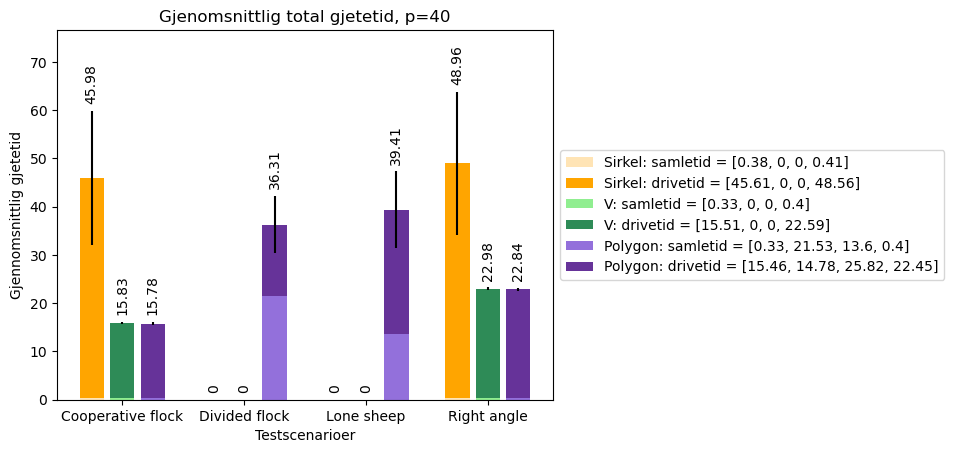
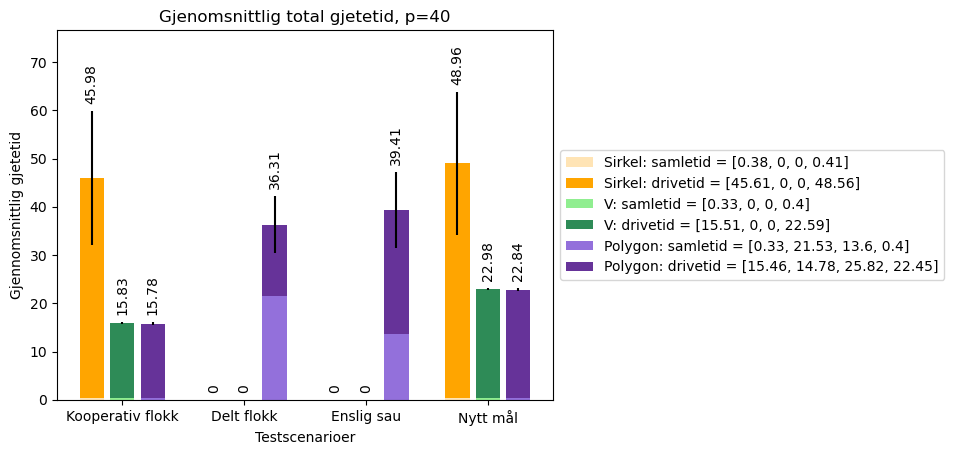
norske navn på testscenarioene i diagrammene

diff --git a/diagrams.py b/diagrams.py
@@ -114,7 +114,7 @@ def average_time_existing(dir_path, df_circle, df_v, df_polygon, perception):
     ax_time.set_xlabel('Testscenarioer')
     ax_time.set_ylabel('Gjennomsnittlig gjetetid')
     ax_time.set_xticks(ind)
-    ax_time.set_xticklabels(["Cooperative flock", "Divided flock", "Lone sheep", "Right angle"])
+    ax_time.set_xticklabels(TESTTYPES_NAME)
 
     ax_time.set_title('Gjenomsnittlig total gjetetid, p={}'.format(perception))
     ax_time.legend(loc='center left', bbox_to_anchor=(1, 0.5))
@@ -179,7 +179,7 @@ def succsessrate_existing(dir_path, df_circle, df_v, df_polygon, perception):
     ax.set_xlabel('Testscenarioer')
     ax.set_ylabel('Antall simuleringer')
     ax.set_xticks(ind)
-    ax.set_xticklabels(["Cooperative flock", "Divided flock", "Lone sheep", "Right angle"])
+    ax.set_xticklabels(TESTTYPES_NAME)
 
     ax.set_title('Antall simuleringer som er suksess og mislykket, p={}'.format(perception))
     ax.legend(loc='center left', bbox_to_anchor=(1, 0.5))
@@ -329,7 +329,7 @@ def average_time_all(dir_path, df_circle, df_v, df_polygon, df_our, perception):
     ax_time.set_xlabel('Testscenarioer')
     ax_time.set_ylabel('Gjennomsnittlig gjetetid')
     ax_time.set_xticks(ind)
-    ax_time.set_xticklabels(["Cooperative flock", "Divided flock", "Lone sheep", "Right angle"])
+    ax_time.set_xticklabels(TESTTYPES_NAME)
 
     ax_time.set_title('Gjenomsnittlig total gjetetid, p={}'.format(perception))
     ax_time.legend(loc='center left', bbox_to_anchor=(1, 0.5))
@@ -408,7 +408,7 @@ def successrate_all(dir_path, df_circle, df_v, df_polygon, df_our, perception):
     ax.set_xlabel('Testscenarioer')
     ax.set_ylabel('Antall simuleringer')
     ax.set_xticks(ind)
-    ax.set_xticklabels(["Cooperative flock", "Divided flock", "Lone sheep", "Right angle"])
+    ax.set_xticklabels(TESTTYPES_NAME)
 
     ax.set_title('Antall simuleringer som er suksess og mislykket, p={}'.format(perception))
     ax.legend(loc='center left', bbox_to_anchor=(1, 0.5))

diff --git a/constants.py b/constants.py
@@ -12,7 +12,7 @@ OUR_RESULTS_PATH = './our_sim_results/2023-05-23 15:08:48.771652'
 # SIMULATIONS
 NO_SHEEP = 5 # Amount of sheep
 NO_DRONES = 3 # Amount of drones
-NO_SIMULATIONS = 100
+NO_SIMULATIONS = 1
 TIME_LIMIT = 70 # Time limit of simulation, seconds
 
 TARGET_FPS = 100 # Ønsket hastighet på simuleringen
@@ -21,6 +21,7 @@ FPS = 30
 OUR_DRONETYPES = ['com', 'v_polygon']
 DRONETYPES = ['our', 'polygon', 'circle', 'v']
 TESTTYPES =  ["cooperative_flock", "divided_flock", "lone_sheep", "right_angle"]
+TESTTYPES_NAME = ["Kooperativ flokk", "Delt flokk", "Enslig sau", "Nytt mål"]
 ANGLES = [10, 15, 20, 25, 30]
 PERCEPTIONS = [20, 30, 40]
 CAPTURE_TIMES = [x for x in range(0, TIME_LIMIT, 2)] # When to capture screenshots of simulations
